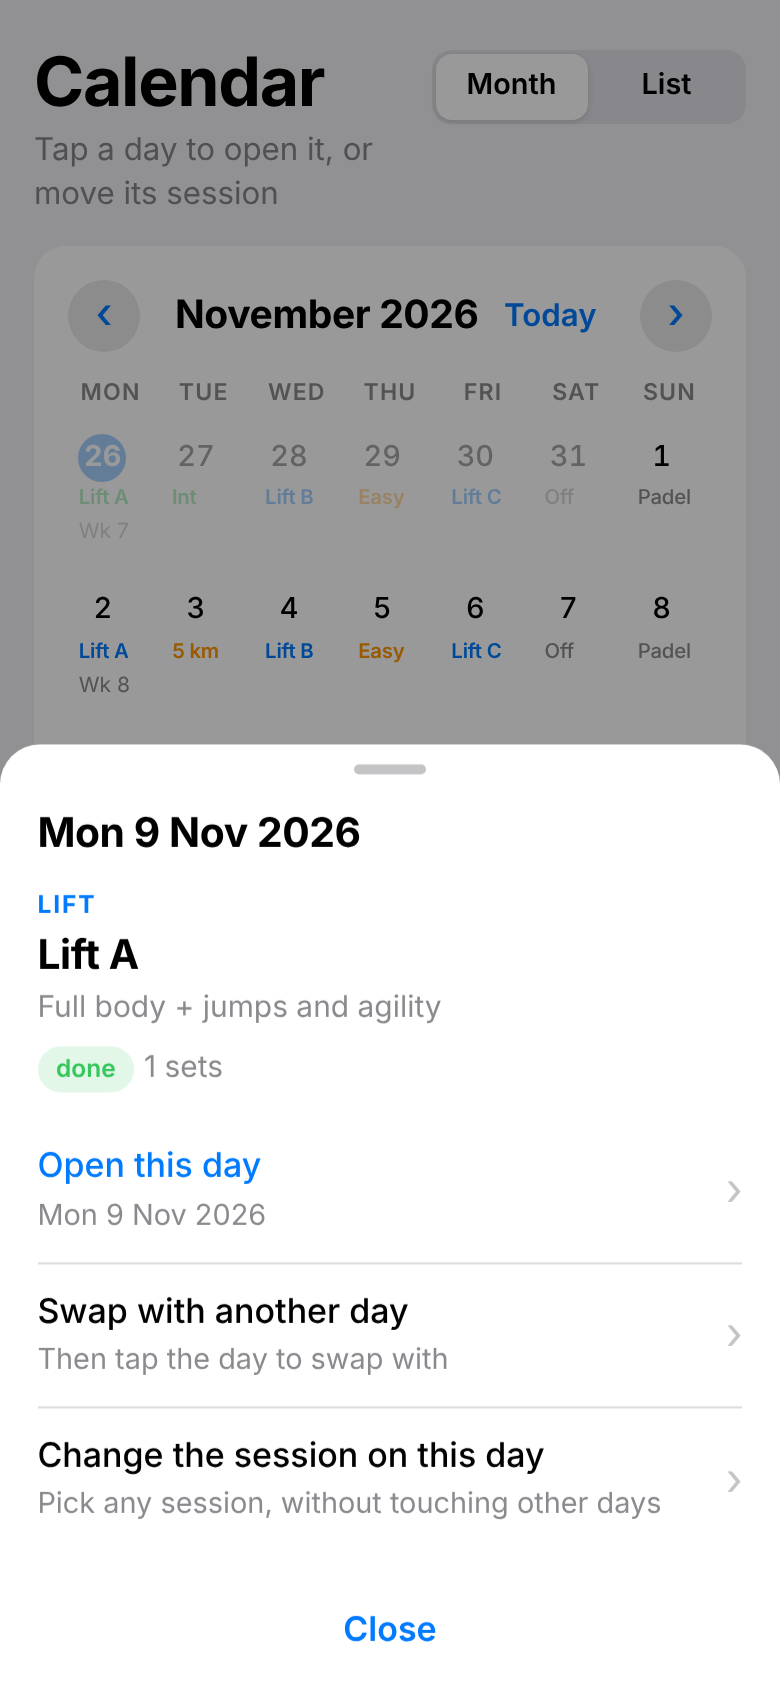
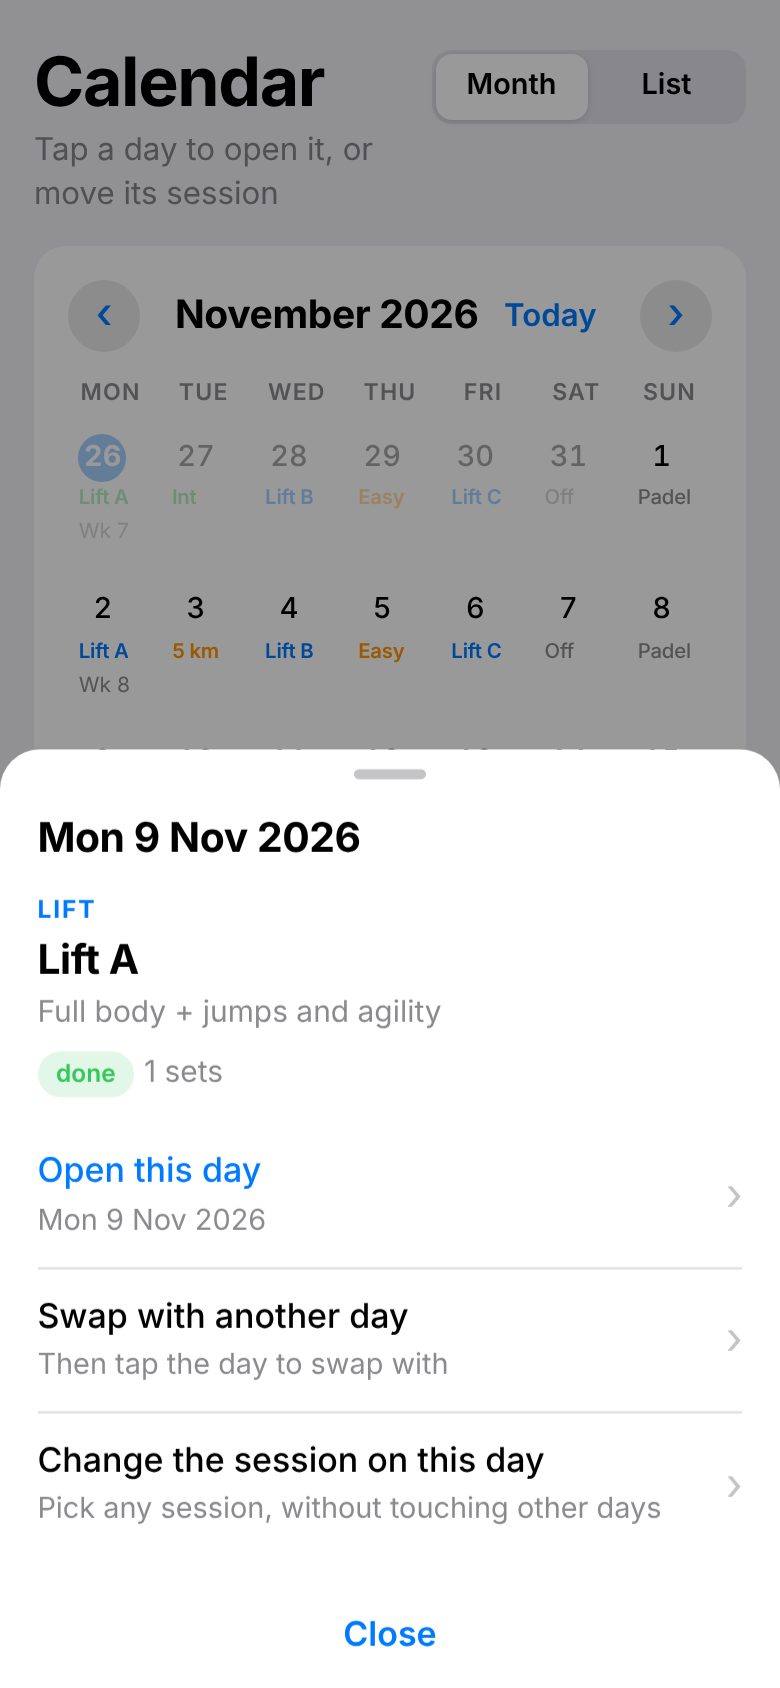
Jump drills for a small gym, sprints moved to the easy run
The shuttle, acceleration and 20 m sprint drills are replaced with
split step + first step (phases 1 and 2), tuck jumps (phase 2) and
single leg pogo hops (phase 3). From week 3 the Thursday easy run
ends with 4 to 6 × 20 m sprints outdoors, shown on that day.

Claude-Session: https://claude.ai/code/session_01MEVMmuCGieuXpFXdC3wJAt

diff --git a/public/js/program.js b/public/js/program.js
@@ -42,7 +42,7 @@ export const PROGRAM = {
         { id: "broad", name: "Broad jump", sets: "3 × 3", note: "Stick each landing" },
         { id: "slh_fwd", name: "Single leg hop forward", sets: "2 × 4 per leg", note: "Hold the landing 2 s" },
         { id: "lat_bound", name: "Lateral bound", sets: "2 × 4 per side", note: "Stick each landing" },
-        { id: "shuttle", name: "5-10-5 shuttle", sets: "4 reps", note: "80% effort" },
+        { id: "split_step", name: "Split step + first step", sets: "3 × 6", note: "80% effort. Small padel ready hop, then one explosive step in any direction and stick. Needs about 2 m" },
       ],
       2: [
         { id: "cmj", name: "Countermovement jump", sets: "3 × 5", note: "Max height, reset between reps" },
@@ -50,8 +50,8 @@ export const PROGRAM = {
         { id: "slh_fwd", name: "Single leg hop forward", sets: "2 × 4 per leg", note: "Stick 2 s" },
         { id: "slh_side", name: "Single leg hop sideways", sets: "2 × 4 per leg", note: "Stick 2 s" },
         { id: "lat_bound", name: "Lateral bound", sets: "2 × 5 per side", note: "" },
-        { id: "shuttle", name: "5-10-5 shuttle", sets: "4 reps", note: "Full speed" },
-        { id: "accel", name: "10 m acceleration", sets: "4 reps", note: "Walk back to recover" },
+        { id: "split_step", name: "Split step + first step", sets: "4 × 6", note: "Full speed" },
+        { id: "tuck", name: "Tuck jump", sets: "3 × 5", note: "Knees to chest, soft landing" },
       ],
       3: [
         { id: "depth", name: "Depth jump from 30 to 45 cm box", sets: "4 × 4", note: "Off the ground as fast as possible" },
@@ -59,7 +59,7 @@ export const PROGRAM = {
         { id: "slh3", name: "Single leg hop, 3 in a row", sets: "3 per leg", note: "" },
         { id: "lat_cont", name: "Continuous lateral bound", sets: "3 × 6 per side", note: "" },
         { id: "reaction", name: "Reaction drill", sets: "6 × 5 s", note: "Partner points a direction or drops a ball" },
-        { id: "sprint20", name: "20 m sprint", sets: "4 to 6 reps", note: "Full recovery between" },
+        { id: "sl_pogo", name: "Single leg pogo hops", sets: "3 × 10 per leg", note: "Quick and stiff, on the spot" },
       ],
     },
     phaseNotes: {
@@ -191,6 +191,7 @@ export const PROGRAM = {
     easy_run: {
       key: "easy_run", name: "Easy zone 2 run", kind: "run", subtitle: "30 to 40 min, conversational pace", duration: "30 to 40 min",
       detail: "30 to 40 min at a pace where you can talk in full sentences. It will feel embarrassingly slow. That is correct, and it is what makes the hard sessions and padel feel easy.",
+      fromWeek3: "From week 3, end it with 4 to 6 × 20 m sprints outdoors, walking back between them. That covers the sprinting the gym has no room for.",
       easy: true,
     },
     rest_walk: {
@@ -343,7 +344,10 @@ export function resolveDay(dateStr, settings = {}) {
     template,
     plan: buildPlan(templateKey, week),
     jumps: template.blocks && template.blocks.includes("jumps") ? PROGRAM.jumps.byPhase[phase] : null,
-    extras: isoWeekday(dateStr) === 7 ? ["Padel (extra, not counted)"] : isoWeekday(dateStr) === 1 ? ["Badminton in the evening (extra, not counted)"] : [],
+    extras: [
+      ...(templateKey === "easy_run" && week >= 3 && template.fromWeek3 ? [template.fromWeek3] : []),
+      ...(isoWeekday(dateStr) === 7 ? ["Padel (extra, not counted)"] : isoWeekday(dateStr) === 1 ? ["Badminton in the evening (extra, not counted)"] : []),
+    ],
     startDate,
   };
 }
